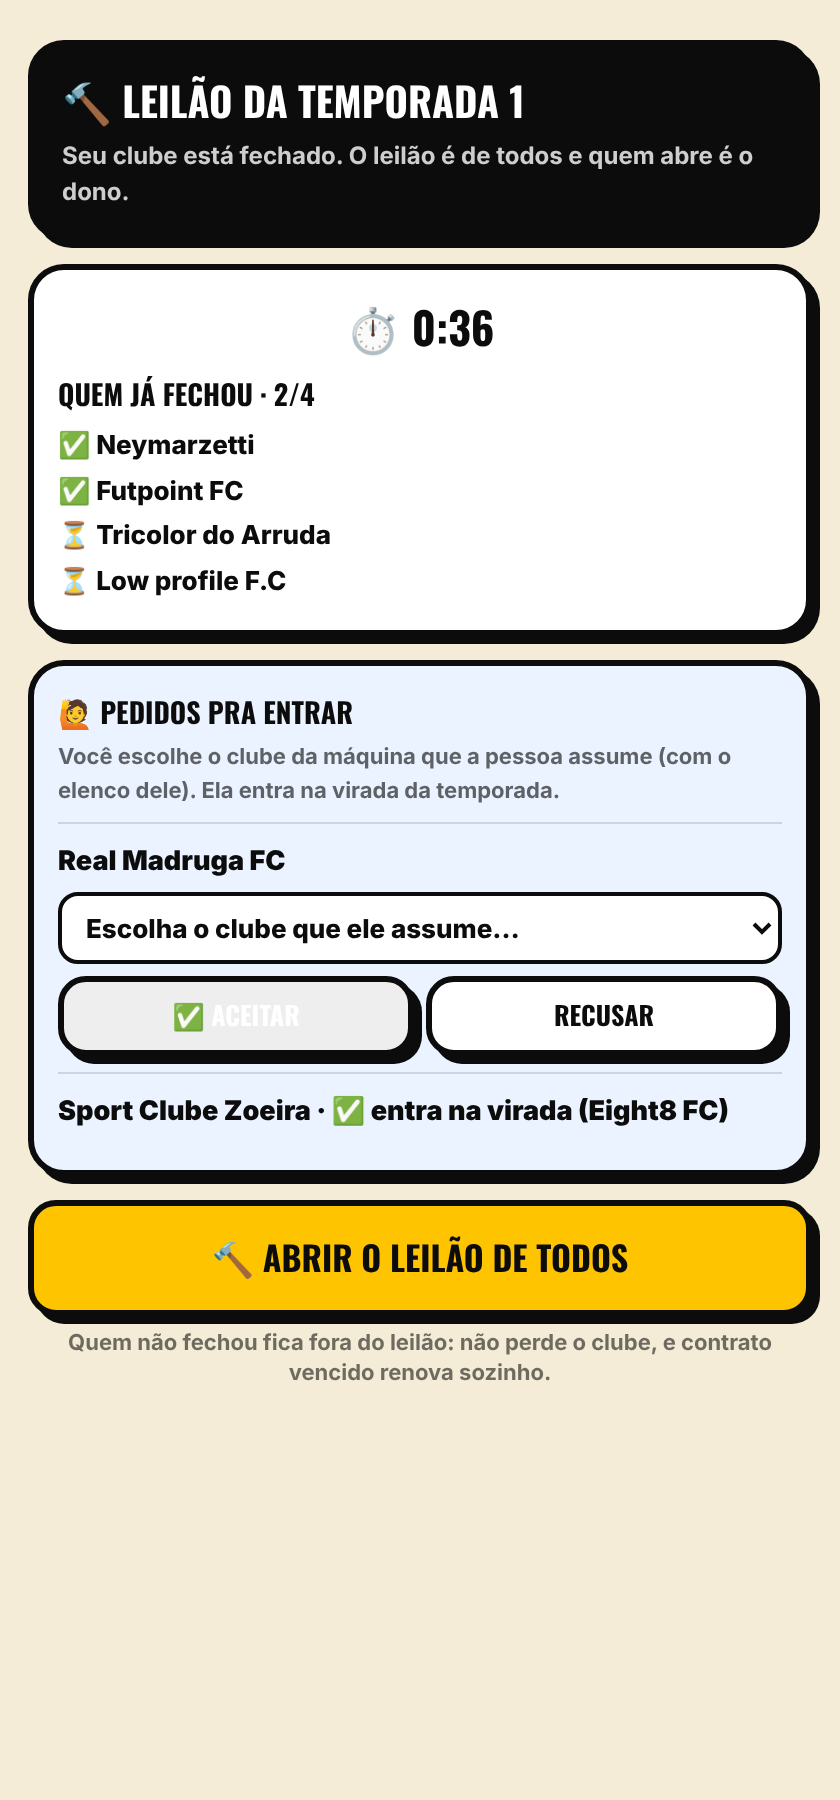
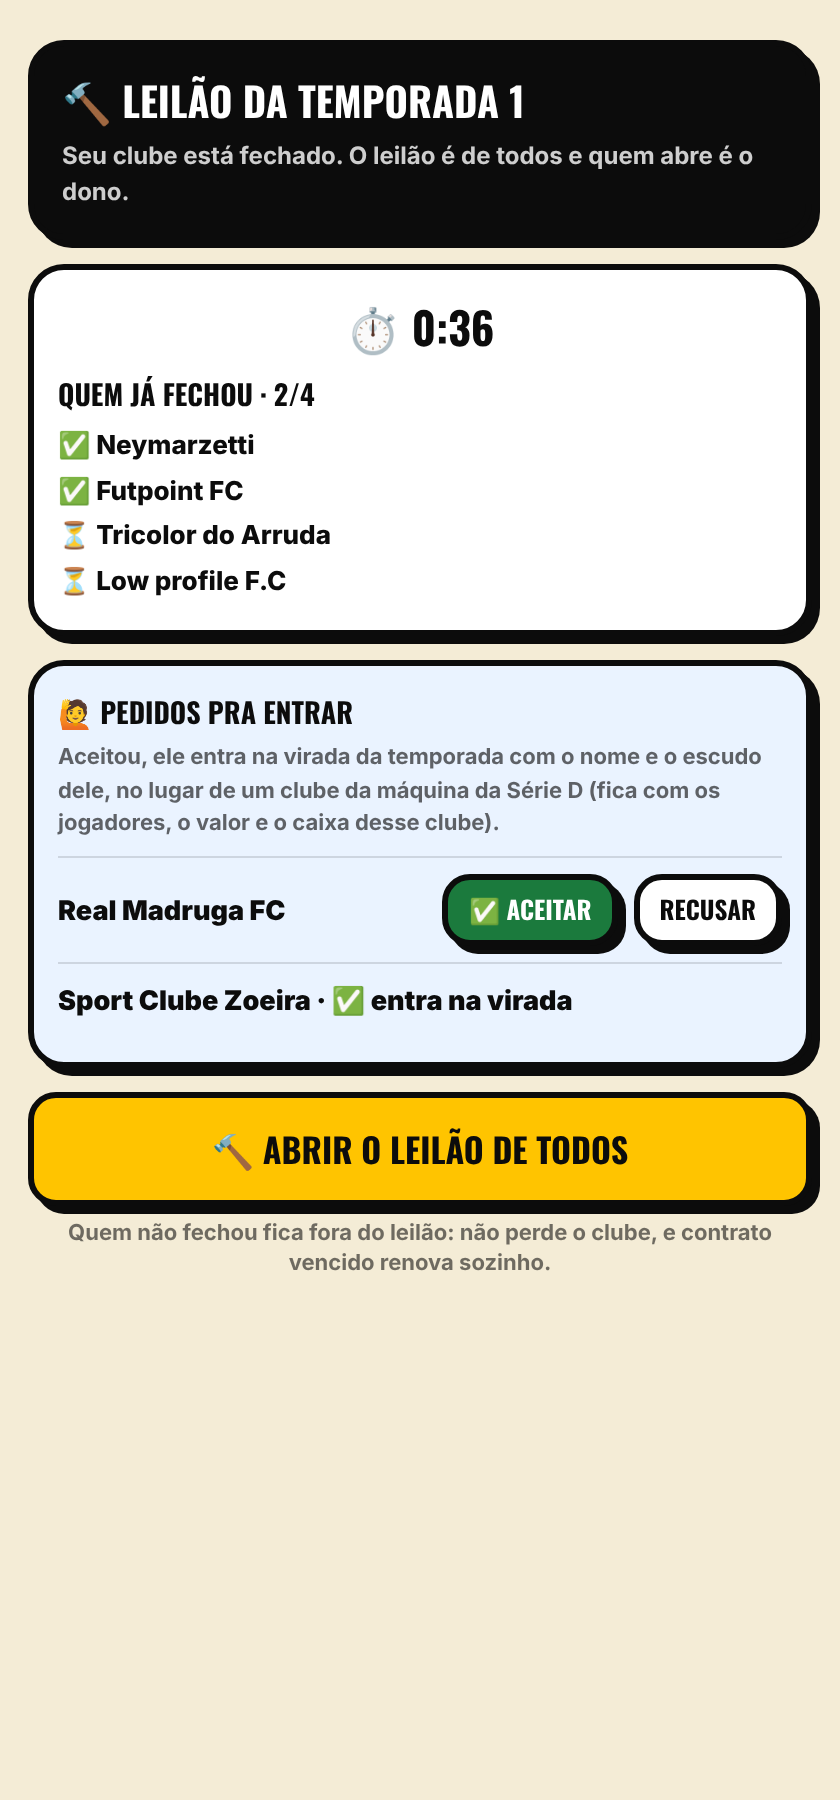
Carreira online: o dono só aceita/recusa o pedido; na virada o amigo entra com o nome e o escudo dele no lugar de um bot da Série D, ficando com jogadores, valor e caixa do bot
Claude-Session: https://claude.ai/code/session_018Ap1zPCMVL9XeZJN3u93ZA

Changed region(s): [[0.031, 0.4044, 0.9905, 0.7778]]

diff --git a/src/escalacao/co2-telas.tsx b/src/escalacao/co2-telas.tsx
@@ -10,9 +10,9 @@ import {
   useCo2, co2Abrir, co2Fechar, co2Criar, co2Entrar, co2MinhasSalas, co2Continuar, co2Mundo, co2Envia, co2PodeCriar,
   co2LeGavetas, co2Gaveta, co2Pronto, co2Comecar, co2Apito, co2Ritmo, co2EncerrarDia, co2SalvaPrivado, co2LePrivado, co2Agora,
   type Co2Sala, type Co2Mundo, TEMPOS_OPCOES, tempoPausa, tempoRodada,
-  co2Pedidos, co2PedidoDecide, co2PedidoEfetiva, co2MeusPedidos, co2LeVirada, type Co2Pedido,
+  co2Pedidos, co2PedidoDecide, co2PedidoEntra, co2MeusPedidos, co2LeVirada, type Co2Pedido,
 } from './co2'
-import { minhaGaveta, co2Fechamento, type EntradasMundo, type GavetaPublica, type Fechamento } from './carreira-online-v2'
+import { minhaGaveta, co2Fechamento, vagasDeNovos, type EntradasMundo, type GavetaPublica, type Fechamento } from './carreira-online-v2'
 import { useMotor2Carreira, copaBrasilLiberada, internacionalCarreiraLiberada } from './sport'
 import { avisoFechado, fechaAviso } from './avisos-fechados'
 import { CMModal, ConvocacaoScreen, CupScreen, simulaCopaMundo, loadCopaSave, bandeiraDe, countryPool, bestXI, formationFits, xiStrength, type CopaSave, type Formation, type CMStatCarta } from './copa-mundo'
@@ -102,36 +102,26 @@ export function Co2PedidosDono() {
   const { state } = useEsc()
   const sn = useCo2()
   const [lista, setLista] = useState<Co2Pedido[]>([])
-  const [escolha, setEscolha] = useState<Record<string, number>>({})
   const [msg, setMsg] = useState('')
   const recarrega = () => { void co2Pedidos().then(setLista) }
   useEffect(() => { recarrega(); const t = setInterval(recarrega, 60000); return () => clearInterval(t) }, [sn.sala?.id])
   if (!state.co2?.comanda || !lista.length) return null
-  const tomados = new Set(lista.filter(p => p.status === 'aceito' && p.mgr != null).map(p => p.mgr as number))
-  const livres = state.managers.filter(m => !m.isHuman && !m.rival && !m.auctionOnly)
-  const divDe = (id: number) => state.careerPlacements?.[`m${id}`] ?? 'V'
-  const decide = async (p: Co2Pedido, mgr: number | null) => {
+  const decide = async (p: Co2Pedido, aceita: boolean) => {
     setMsg('')
-    const r = await co2PedidoDecide(p.user_id, mgr)
-    setMsg(r === 'ok' ? '' : r === 'ocupado' ? tr('Esse clube já foi pra outra pessoa.', 'That club already went to someone else.') : tr('Não deu agora. Tenta de novo.', 'Didn\'t work. Try again.'))
+    const r = await co2PedidoDecide(p.user_id, aceita ? -1 : null)
+    if (r !== 'ok') setMsg(tr('Não deu agora. Tenta de novo.', 'Didn\'t work. Try again.'))
     recarrega()
   }
   return (
     <div style={{ ...caixa('#EAF3FF'), padding: 12 }}>
       <p style={{ ...OSWALD, fontWeight: 900, fontSize: 14, margin: '0 0 4px', textTransform: 'uppercase' }}>🙋 {tr('Pedidos pra entrar', 'Requests to join')}</p>
-      <p style={{ fontWeight: 700, fontSize: 11, margin: '0 0 8px', color: 'rgba(0,0,0,.6)' }}>{tr('Você escolhe o clube da máquina que a pessoa assume (com o elenco dele). Ela entra na virada da temporada.', 'You pick the computer club the person takes over (with its squad). They join at the season turnover.')}</p>
+      <p style={{ fontWeight: 700, fontSize: 11, margin: '0 0 8px', color: 'rgba(0,0,0,.6)' }}>{tr('Aceitou, ele entra na virada da temporada com o nome e o escudo dele, no lugar de um clube da máquina da Série D (fica com os jogadores, o valor e o caixa desse clube).', 'Once accepted, they join at the season turnover with their own name and crest, taking a computer club\'s place in Série D (keeping that club\'s players, value and cash).')}</p>
       {lista.map(p => (
-        <div key={p.user_id} style={{ display: 'grid', gap: 6, borderTop: '1px solid rgba(0,0,0,.12)', padding: '8px 0' }}>
-          <span style={{ fontWeight: 900, fontSize: 13.5 }}>{p.nome}{p.status === 'aceito' ? ` · ✅ ${tr('entra na virada', 'joins at the turnover')} (${state.managers.find(m => m.id === p.mgr)?.teamName ?? '?'})` : ''}</span>
+        <div key={p.user_id} style={{ display: 'flex', alignItems: 'center', gap: 8, borderTop: '1px solid rgba(0,0,0,.12)', padding: '8px 0' }}>
+          <span style={{ fontWeight: 900, fontSize: 13.5, flex: 1 }}>{p.nome}{p.status === 'aceito' ? ` · ✅ ${tr('entra na virada', 'joins at the turnover')}` : ''}</span>
           {p.status === 'pedido' && <>
-            <select value={escolha[p.user_id] ?? ''} onChange={e => setEscolha(x => ({ ...x, [p.user_id]: Number(e.target.value) }))} style={{ border: `2.5px solid ${INK}`, borderRadius: 10, padding: '7px 8px', fontWeight: 800, fontSize: 13, background: '#fff', color: INK }}>
-              <option value="">{tr('Escolha o clube que ele assume…', 'Pick the club they take over…')}</option>
-              {livres.filter(m => !tomados.has(m.id)).map(m => <option key={m.id} value={m.id}>{divDe(m.id)} · {m.teamName}</option>)}
-            </select>
-            <div style={{ display: 'flex', gap: 6 }}>
-              <button disabled={escolha[p.user_id] == null} onClick={() => void decide(p, escolha[p.user_id] ?? null)} style={{ ...botao(escolha[p.user_id] == null ? '#eee' : GREEN, escolha[p.user_id] == null ? 'rgba(0,0,0,.4)' : '#fff'), fontSize: 13, padding: '7px 10px' }}>✅ {tr('Aceitar', 'Accept')}</button>
-              <button onClick={() => { if (window.confirm(tr(`Recusar o pedido de ${p.nome}?`, `Decline ${p.nome}'s request?`))) void decide(p, null) }} style={{ ...botao('#fff'), fontSize: 13, padding: '7px 10px' }}>{tr('Recusar', 'Decline')}</button>
-            </div>
+            <button onClick={() => void decide(p, true)} style={{ ...botao(GREEN, '#fff'), width: 'auto', fontSize: 12.5, padding: '6px 10px' }}>✅ {tr('Aceitar', 'Accept')}</button>
+            <button onClick={() => { if (window.confirm(tr(`Recusar o pedido de ${p.nome}?`, `Decline ${p.nome}'s request?`))) void decide(p, false) }} style={{ ...botao('#fff'), width: 'auto', fontSize: 12.5, padding: '6px 10px' }}>{tr('Recusar', 'Decline')}</button>
           </>}
         </div>
       ))}
@@ -561,16 +551,18 @@ export function Co2ViradaEspera() {
     if (restante != null && restante > 0 && fora.length && !window.confirm(tr(`Ainda faltam ${restante} s no relógio. Abrir o leilão agora?`, `There are still ${restante} s on the clock. Open the auction now?`))) return
     if (fora.length && !window.confirm(tr(`${fora.join(', ')} ainda não fechou. Vai ficar fora do leilão e os contratos vencidos renovam sozinhos. Abrir mesmo assim?`, `${fora.join(', ')} hasn't closed yet. They'll sit out the auction and expired contracts renew by themselves. Open anyway?`))) return
     // 🙋 os pedidos aceitos entram AGORA: o clube da máquina vira deles, o lugar no mundo é anotado e o banco ganha o clube
-    const aceitos = (await co2Pedidos()).filter(p => p.status === 'aceito' && p.mgr != null && state.managers.some(m => m.id === p.mgr && !m.isHuman))
-    dispatch({ type: 'CO2_ABRE_VIRADA', fechamentos: f, novos: aceitos.map(p => ({ mgr: p.mgr as number, nome: p.nome })) })
-    if (aceitos.length) {
+    const aceitos = (await co2Pedidos()).filter(p => p.status === 'aceito')
+    const vagas = vagasDeNovos(state.managers, state.careerPlacements as Record<string, string> | undefined, aceitos.length)
+    const novos = aceitos.slice(0, vagas.length).map((p, i) => ({ ...p, mgr: vagas[i] }))
+    dispatch({ type: 'CO2_ABRE_VIRADA', fechamentos: f, novos: novos.map(p => ({ mgr: p.mgr, nome: p.nome })) })
+    if (novos.length) {
       const mm = co2Agora().mundo ?? sn.mundo
       if (mm) {
         const ordem = [...mm.ordem]
-        for (const p of aceitos) ordem[p.mgr as number] = p.user_id
+        for (const p of novos) ordem[p.mgr] = p.user_id
         await co2Mundo('virada', null, null, { ...mm, ordem })
       }
-      for (const p of aceitos) await co2PedidoEfetiva(p.user_id)
+      for (const p of novos) await co2PedidoEntra(p.user_id, p.mgr)
     }
   }
   return (

diff --git a/src/escalacao/store.tsx b/src/escalacao/store.tsx
@@ -9950,24 +9950,29 @@ function reducerBase(state: EscState, action: Action): EscState {
     // roda o MESMO leilão de reservas da carreira solo (RESERVE_AUCTION_ONLINE).
     case 'CO2_ABRE_VIRADA': {
       if (!s.co2?.comanda || s.co2.espelho || s.screen !== 'reserveList' || s.co2.fechou !== s.seasonNo) return s
-      // 🙋 27/11 (Diego 26/11: depois de começar, só com plano + convite aceito, e entra na virada): o clube da máquina que o
-      // dono escolheu vira do amigo (com o elenco que tinha; caixa de largada). Fica de fora deste leilão (não fechou nada) e
-      // o contrato vencido renova sozinho, como quem faltou.
+      // 🙋 27/11 (Diego 26/11: depois de começar, só com plano + convite aceito, e entra na virada): o amigo entra com o nome/escudo
+      // DELE no lugar de um bot da máquina (Série D primeiro, `vagasDeNovos`) e fica com o elenco, o valor e o caixa do bot. Fica de
+      // fora deste leilão (não fechou nada) e o contrato vencido renova sozinho, como quem faltou.
+      const chegadas: string[] = []
       for (const n of action.novos ?? []) {
         const m = s.managers.find(x => x.id === n.mgr)
         const nome = (n.nome ?? '').trim()
         if (!m || m.isHuman || m.rival || m.auctionOnly || nome.length < 2) continue
         m.isHuman = true; m.teamName = nome
-        s.careerCoins = { ...(s.careerCoins ?? {}), [m.id]: Math.max(100, Math.round(s.careerCoins?.[m.id] ?? 0)) }
+        // fica com os jogadores, o valor e o CAIXA do bot (Diego 27/11: "só vai pegar as coisas do time… jogadores, valor, tudo")
+        const antigo = m.teamName
+        s.careerCoins = { ...(s.careerCoins ?? {}), [m.id]: Math.max(0, Math.round(s.careerCoins?.[m.id] ?? m.money ?? 100)) }
         m.money = s.careerCoins[m.id]
-        ;(s.marketLog = s.marketLog ?? []).push(`🙋 ${nome} chegou na carreira e assumiu o clube da máquina`)
+        chegadas.push(`🙋 ${nome} chegou na carreira no lugar do ${antigo}`)
       }
       s.humanCount = s.managers.filter(m => m.isHuman).length
       const f = aplicaFechamentos(s, action.fechamentos ?? {})
       s.managers = f.managers; s.careerCoins = f.careerCoins; s.reserveListed = f.reserveListed
       s.contratoRelease = f.contratoRelease; s.aliciarJogadores = f.aliciarJogadores
       s.co2 = { ...s.co2, fora: f.fora, sondou: f.sondou, tit: f.tit }
-      return reducer(s, { type: 'RESERVE_AUCTION_ONLINE', co2Abre: true })
+      const aberto = reducer(s, { type: 'RESERVE_AUCTION_ONLINE', co2Abre: true })
+      if (chegadas.length) aberto.marketLog = [...(aberto.marketLog ?? []), ...chegadas] // (a notícia entra depois: o leilão começa com o mural limpo)
+      return aberto
     }
     case 'CO2_GAVETAS': {
       if (!s.co2) return s

diff --git a/src/escalacao/carreira-online-v2.ts b/src/escalacao/carreira-online-v2.ts
@@ -254,6 +254,15 @@ export function co2JuntaVirada(base: EscState, cmd: EscState, meuId: number, fal
   return out
 }
 
+/** 🙋 27/11 (Diego: *"ele entra no lugar desse bot… sempre na 4ª divisão… com o nome dele, o escudo dele… só pega os jogadores, valor,
+ *  tudo desse time"*): as vagas de quem entra na virada — bots da máquina (nunca rival do leilão), primeiro os da Série D, depois Várzea,
+ *  C, B e A; empate pelo id. Mesma conta em todo aparelho. */
+export function vagasDeNovos(managers: readonly Manager[], placements: Readonly<Record<string, string>> | undefined, n: number): number[] {
+  const ordemDiv = ['D', 'V', 'C', 'B', 'A']
+  const div = (id: number) => { const i = ordemDiv.indexOf(placements?.[`m${id}`] ?? 'V'); return i < 0 ? 9 : i }
+  return managers.filter(m => !m.isHuman && !m.rival && !m.auctionOnly).sort((a, b) => div(a.id) - div(b.id) || a.id - b.id).slice(0, Math.max(0, n)).map(m => m.id)
+}
+
 /** ✍ 27/11 (Diego, 26/11: *"pra quem não estava, um recado discreto ao voltar"*): quem faltou na virada e teve contrato vencido
  *  renovado sozinho no leilão de todos — os nomes, pra a linha miúda "enquanto você estava fora, renovamos…". */
 export function renovadosNaVirada(antes: readonly Card[], depois: readonly Card[], temporada: number): { season: number; nomes: string[] } {

diff --git a/src/escalacao/co2.ts b/src/escalacao/co2.ts
@@ -142,9 +142,9 @@ export async function co2PedidoDecide(user: string, mgr: number | null): Promise
   const { data, error } = await supabase.rpc('esc_carr_pedido_decide', { p_sala: canalSala, p_user: user, p_mgr: mgr })
   return error ? 'erro' : String(data ?? 'erro')
 }
-export async function co2PedidoEfetiva(user: string): Promise<string> {
+export async function co2PedidoEntra(user: string, mgr: number): Promise<string> {
   if (!canalSala) return 'erro'
-  const { data, error } = await supabase.rpc('esc_carr_pedido_efetiva', { p_sala: canalSala, p_user: user })
+  const { data, error } = await supabase.rpc('esc_carr_pedido_entra', { p_sala: canalSala, p_user: user, p_mgr: mgr })
   return error ? 'erro' : String(data ?? 'erro')
 }
 export async function co2MinhasSalas(): Promise<(Co2Sala & { assento: number; meuClube: string })[]> {

diff --git a/docs/pendencias.md b/docs/pendencias.md
@@ -114,8 +114,9 @@ Diego pediu levar as melhorias do Brasil Oficial para a tradicional. Conferidos 
   fica DESLIGADA no co2 e a virada da T40+ não espera por ela).
 - ✅ (27/11) 🌐 CARREIRA ONLINE — os 4 que faltavam (Diego: *"faça tudo"*):
   · 🙋 ENTRAR DEPOIS DE COMEÇAR: só com plano (`esc_pago_uid`) → vira PEDIDO; o dono vê "🙋 Pedidos pra entrar" (temporada e espera da virada),
-    escolhe o clube da MÁQUINA que a pessoa assume e aceita/recusa; ela entra na VIRADA (`CO2_ABRE_VIRADA` com `novos`: o clube vira dela, caixa
-    de largada 100, fica fora daquele leilão; o dono grava o lugar no `mundo.ordem` e o banco cria o clube com `esc_carr_pedido_efetiva`). O
+    só ACEITA ou RECUSA (🔁 Diego 27/11: *"ele entra sempre com o clube dele… no lugar desse bot… na 4ª divisão… só pega os jogadores, valor,
+    tudo"*); na VIRADA a pessoa entra com o NOME/ESCUDO dela no lugar de um bot da máquina da Série D (`vagasDeNovos`: D, depois V, C, B, A) e fica
+    com o elenco, o valor e o CAIXA do bot (`CO2_ABRE_VIRADA` com `novos`), fora daquele leilão; o dono grava o lugar no `mundo.ordem` e o banco cria o clube com `esc_carr_pedido_entra`). O
     aparelho dela carrega a carreira pela foto da virada (`CO2_NOVO`, sem o extrato/internacional do dono). Antes de começar continua de graça.
     Fechou também a brecha: entre uma noite e outra a sala ficava em 'espera' e deixava ENTRAR NO MEIO da carreira.
     ⚠ A caixa da carreira online ainda só aparece pra quem está em `CO2_TESTERS` (Diego, conta 2, Futpoint) — gente de fora não acha onde pedir.
